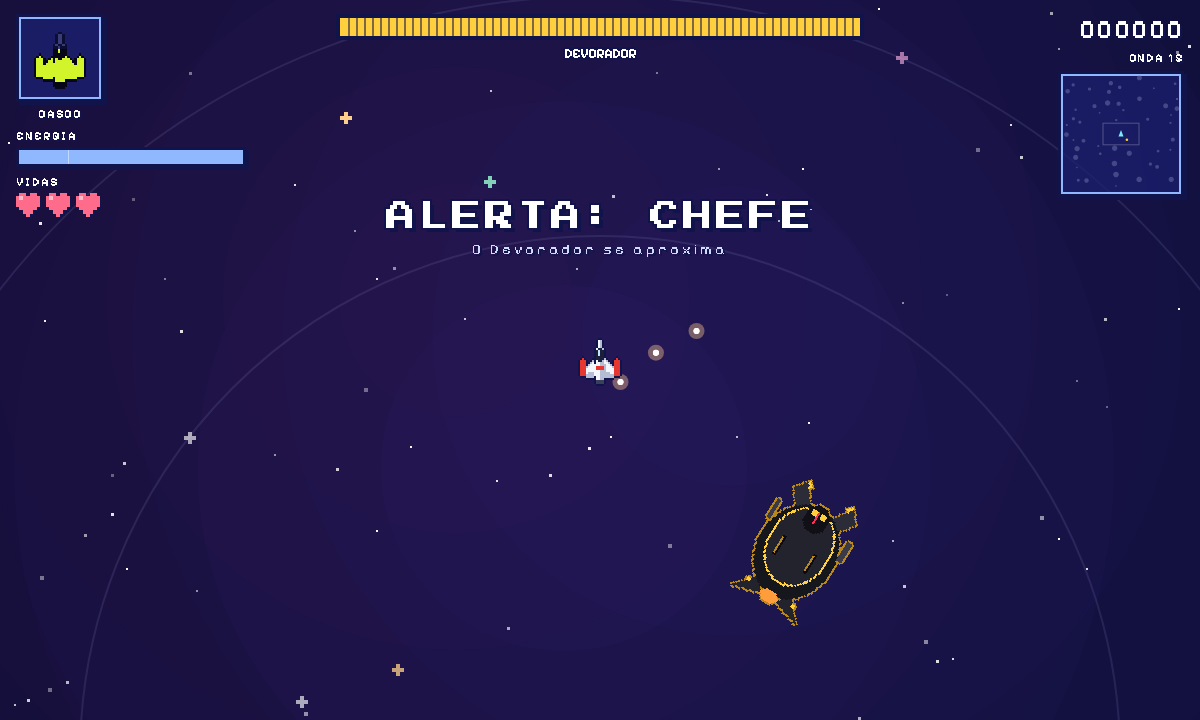
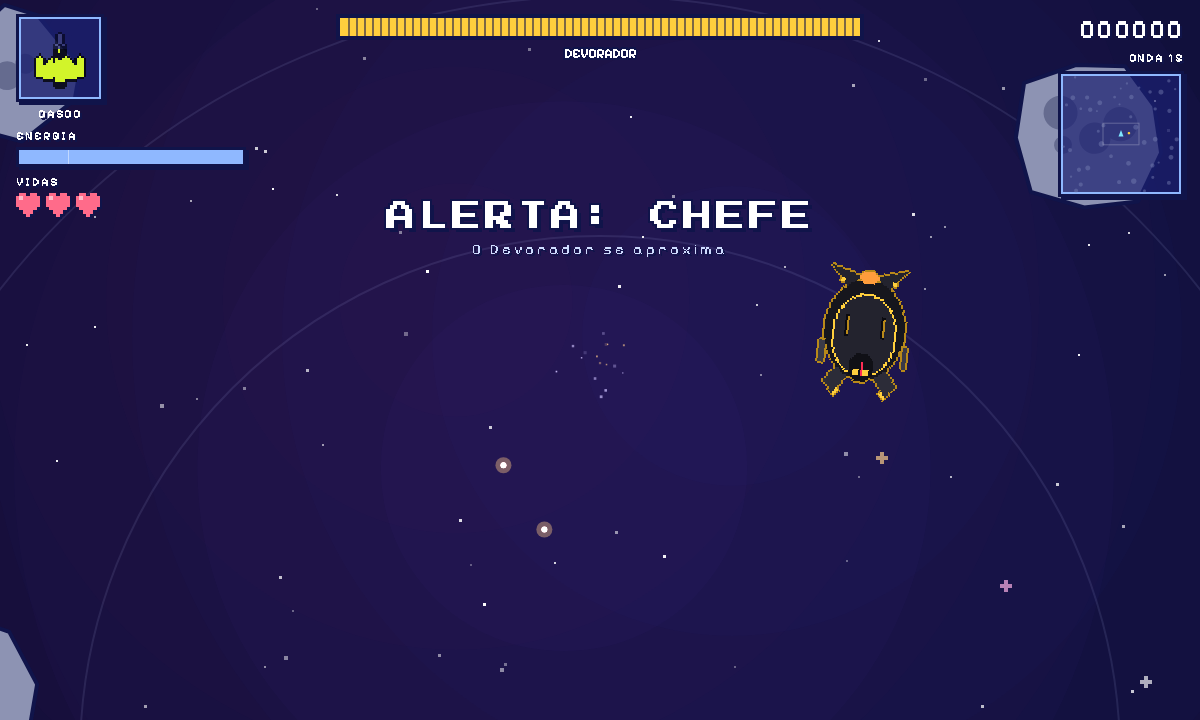
Corrige o joystick e compacta a interface do celular na horizontal
- Joystick: o movimento passa a ser medido a partir do ponto do toque, o que
  corrige a nave que so andava para cima.
- Visao do jogo afastada em celulares (zoom) para mostrar mais do mapa.
- HUD, botoes de toque, menu, pausa, fases e Hangar compactos em telas baixas.
- Tela cheia e bloqueio de orientacao ao iniciar a partida no celular.
- README, landing page e capturas atualizados.

diff --git a/site/jogo/index.html b/site/jogo/index.html
@@ -272,6 +272,72 @@ html,body{overscroll-behavior:none;-webkit-tap-highlight-color:transparent;-webk
 .vol input[type=range]::-moz-range-track{height:12px;border:3px solid var(--ink);background:linear-gradient(90deg,#ffcf3d var(--p),#0d0b2b var(--p))}
 .vol input[type=range]::-moz-range-thumb{width:10px;height:18px;border-radius:0;background:#fff;border:3px solid var(--ink)}
 #pause .vol{margin:2px 0 4px}
+
+/* ===== Celular na horizontal: tudo menor ===== */
+@media (pointer:coarse) and (max-height:520px){
+  #hud{padding:max(6px,env(safe-area-inset-top,0px)) max(10px,env(safe-area-inset-right,0px)) 0 max(10px,env(safe-area-inset-left,0px));gap:8px}
+  .hud-l{width:140px;gap:4px}
+  .icons{gap:8px}
+  .sq{width:46px;height:46px;border-width:2px;box-shadow:inset 0 0 0 1px #8fb8ff,2px 2px 0 var(--ink)}
+  #hullBox{padding:2px}
+  .cap,.lbl{font-size:8px;text-shadow:1px 1px 0 var(--ink)}
+  .meter{gap:2px}
+  .bar{height:10px;border-width:2px;box-shadow:2px 2px 0 var(--ink)}
+  .lives{gap:3px}
+  .hrt{width:15px;height:15px}
+  .hud-r{gap:3px}
+  #score{font-size:17px}
+  #waveLbl{font-size:9px}
+  #mm{width:78px;height:78px;border-width:2px;box-shadow:inset 0 0 0 1px #8fb8ff,2px 2px 0 var(--ink)}
+  #wsec{font-size:11px}
+  #banner{top:16%;font-size:15px}
+  #banner small{font-size:11px;margin-top:4px}
+  #stickBase{width:100px;height:100px;left:calc(26px + env(safe-area-inset-left,0px));bottom:12px;border-width:2px}
+  #stickKnob{width:42px;height:42px;left:27px;top:27px;border-width:2px}
+  #tbtns{grid-template-columns:repeat(3,62px);gap:6px;right:max(10px,env(safe-area-inset-right,0px));bottom:10px}
+  .tb,.tb.big{height:44px;font-size:10px;border-width:2px;box-shadow:inset -2px -2px 0 #a9c8ff,2px 2px 0 var(--ink)}
+  #tDashL{order:1}#tDashR{order:2}#tSwap{order:3}#tBoost{order:4}#tOrb{order:5}#tFire{order:6}
+  #tPause{width:46px;height:32px;top:6px;font-size:10px}
+  .ov{padding:8px max(10px,env(safe-area-inset-right,0px)) 8px max(10px,env(safe-area-inset-left,0px))}
+  .card{padding:12px 16px;gap:8px;box-shadow:inset 3px 3px 0 #fff,inset -3px -3px 0 #b9c8ff,5px 5px 0 var(--ink)}
+  h1{font-size:20px}
+  h1 br{display:none}
+  h1 span{margin-left:.45em}
+  h2{font-size:14px}
+  .eyebrow{font-size:8px}
+  .tag{font-size:13px}
+  .btn{padding:9px 12px;font-size:10px;border-width:2px;box-shadow:inset -3px -3px 0 #a9c8ff,3px 3px 0 var(--ink)}
+  .card.menu{width:min(640px,100%);gap:8px}
+  .card.menu .eyebrow{display:none}
+  .menu-btns{grid-template-columns:repeat(3,1fr);gap:8px}
+  .menu-btn{padding:8px 10px}
+  .menu-btn .b-t{font-size:11px}
+  .menu-btn .b-s{display:none}
+  .menu-btn.big{grid-column:1/-1;padding:10px}
+  .menu-btn.big .b-t{font-size:14px}
+  .vol{gap:8px}
+  .vol .vl{font-size:8px}
+  .vol .vb{padding:5px 7px}
+  .pilot{gap:3px}
+  .pilot .p-t{font-size:8px}
+  .pilot small{display:none}
+  .hi{font-size:11px}
+  #pause .card{width:min(560px,100%);grid-template-columns:1fr 1fr}
+  #pause .card>h2,#pause .card>p,#pause .card>.vol{grid-column:1/-1}
+  .card.over{width:min(640px,100%)}
+  .stat{padding:6px}
+  .stat b,.pts b{font-size:12px}
+  .rank li{padding:3px 8px;font-size:13px;grid-template-columns:34px 1fr auto 48px}
+  #rankOver li:nth-child(n+4){display:none}
+  .lvl-grid{grid-template-columns:repeat(8,1fr);gap:6px}
+  .lvl{font-size:6px;gap:3px}
+  .lvl .circ{font-size:0}
+  .shop-grid{grid-template-columns:repeat(auto-fill,minmax(70px,1fr));gap:6px}
+  .tile{padding:8px 4px 6px}
+  .tile .ico{width:30px;height:30px}
+  .tile.skin canvas{width:44px;height:44px}
+  #skinPrev{max-height:100px;width:auto;margin:0 auto}
+}
 </style>
 
 <canvas id="cv" aria-label="Área de jogo do Galaxy Divers"></canvas>
@@ -570,10 +636,11 @@ function bounceOffRocks(o, rad) {
 
 const cv = $('cv'), ctx = cv.getContext('2d');
 const mm = $('mm'), mctx = mm.getContext('2d');
-let W = 0, H = 0, DPR = 1;
+let W = 0, H = 0, DPR = 1, Z = 1;
 function resize() {
   DPR = Math.min(2, window.devicePixelRatio || 1);
   W = window.innerWidth; H = window.innerHeight;
+  Z = isTouch ? clamp(H / 560, .55, 1) : 1;
   cv.width = Math.round(W * DPR); cv.height = Math.round(H * DPR);
   cv.style.width = W + 'px'; cv.style.height = H + 'px';
 }
@@ -824,22 +891,22 @@ cv.addEventListener('wheel', e => {
   lastWheel = t; cycleWeapon(e.deltaY > 0 ? 1 : -1);
 }, { passive: false });
 
-const touch = { sx: 0, sy: 0, m: 0, active: false, id: null, fire: false, boost: false };
+const touch = { sx: 0, sy: 0, m: 0, ox: 0, oy: 0, active: false, id: null, fire: false, boost: false };
 const zone = $('stickZone'), base = $('stickBase'), knob = $('stickKnob');
 zone.addEventListener('pointerdown', e => {
   touch.id = e.pointerId; touch.active = true; zone.setPointerCapture(e.pointerId);
-  const r = base.getBoundingClientRect();
-  // reposiciona a base sob o dedo
-  base.style.left = (e.clientX - 60) + 'px'; base.style.top = (e.clientY - 60) + 'px'; base.style.bottom = 'auto';
+  // a base aparece sob o dedo, e o movimento é medido a partir do ponto em que o dedo tocou
+  const zr = zone.getBoundingClientRect(), hb = base.offsetWidth / 2;
+  touch.ox = e.clientX; touch.oy = e.clientY;
+  base.style.left = (e.clientX - zr.left - hb) + 'px'; base.style.top = (e.clientY - zr.top - hb) + 'px'; base.style.bottom = 'auto';
   moveStick(e);
 });
 zone.addEventListener('pointermove', e => { if (e.pointerId === touch.id) moveStick(e); });
 const endStick = e => { if (e.pointerId !== touch.id) return; touch.active = false; touch.m = 0; touch.id = null; knob.style.transform = ''; };
 zone.addEventListener('pointerup', endStick); zone.addEventListener('pointercancel', endStick);
 function moveStick(e) {
-  const r = base.getBoundingClientRect();
-  let dx = e.clientX - (r.left + 60), dy = e.clientY - (r.top + 60);
-  const d = Math.hypot(dx, dy), max = 50;
+  let dx = e.clientX - touch.ox, dy = e.clientY - touch.oy;
+  const d = Math.hypot(dx, dy), max = base.offsetWidth * .42;
   if (d > max) { dx *= max / d; dy *= max / d; }
   touch.sx = dx; touch.sy = dy; touch.m = Math.min(1, d / max);
   knob.style.transform = `translate(${dx}px,${dy}px)`;
@@ -864,7 +931,16 @@ $('againBtn').addEventListener('click', start);
 $('resumeBtn').addEventListener('click', togglePause);
 $('pauseRestart').addEventListener('click', () => start());
 
+function goFullscreen() {
+  if (!isTouch || document.fullscreenElement) return;
+  const el = document.documentElement;
+  try {
+    const p = el.requestFullscreen && el.requestFullscreen({ navigationUI: 'hide' });
+    if (p && p.then) p.then(() => { try { screen.orientation.lock('landscape').catch(() => {}); } catch (e) {} }).catch(() => {});
+  } catch (e) {}
+}
 function start() {
+  goFullscreen();
   initAudio(); reset(); state = 'play'; ui.banner.classList.remove('show');
   ui.menu.hidden = true; $('skinsScr').hidden = true; $('ctrlScr').hidden = true; $('levelScr').hidden = true; $('scoresScr').hidden = true; ui.over.hidden = true; ui.pause.hidden = true; ui.shop.hidden = true; ui.hud.hidden = false;
   ui.touch.hidden = !isTouch;
@@ -1796,8 +1872,10 @@ function render() {
   ctx.globalAlpha = 1;
 
   ctx.save();
-  ctx.translate(Math.round(W / 2 - cam.x + sx), Math.round(H / 2 - cam.y + sy));
-  const vx0 = cam.x - W / 2 - 60, vx1 = cam.x + W / 2 + 60, vy0 = cam.y - H / 2 - 60, vy1 = cam.y + H / 2 + 60;
+  if (Z === 1) ctx.translate(Math.round(W / 2 - cam.x + sx), Math.round(H / 2 - cam.y + sy));
+  else { ctx.translate(Math.round(W / 2), Math.round(H / 2)); ctx.scale(Z, Z); ctx.translate(-cam.x + sx, -cam.y + sy); }
+  const hw = W / 2 / Z, hh = H / 2 / Z;
+  const vx0 = cam.x - hw - 60, vx1 = cam.x + hw + 60, vy0 = cam.y - hh - 60, vy1 = cam.y + hh + 60;
   const on = (x, y) => x > vx0 && x < vx1 && y > vy0 && y < vy1;
 
   // borda da arena
@@ -1906,7 +1984,7 @@ function render() {
   if (state === 'play' || state === 'pause') {
     const cx = W / 2, cy = H / 2, mx = W / 2 - 26, my = H / 2 - 26;
     for (const e of enemies) {
-      const ex = e.x - cam.x, ey = e.y - cam.y;
+      const ex = (e.x - cam.x) * Z, ey = (e.y - cam.y) * Z;
       if (Math.abs(ex) < W / 2 && Math.abs(ey) < H / 2) continue;
       const a = Math.atan2(ey, ex), c = Math.cos(a), s = Math.sin(a);
       const k = Math.min(mx / Math.abs(c || 1e-6), my / Math.abs(s || 1e-6));
@@ -1942,7 +2020,7 @@ function renderMinimap() {
   mctx.strokeStyle = 'rgba(255,255,255,.25)'; mctx.lineWidth = 2;
   mctx.fillStyle = 'rgba(120,128,180,.45)';
   for (const a of asteroids) { mctx.beginPath(); mctx.arc(a.x * k, a.y * k, Math.max(1.5, a.r * k), 0, TAU); mctx.fill(); }
-  mctx.strokeRect((cam.x - W / 2) * k, (cam.y - H / 2) * k, W * k, H * k);
+  mctx.strokeRect((cam.x - W / 2 / Z) * k, (cam.y - H / 2 / Z) * k, W / Z * k, H / Z * k);
   for (const p of pickups) { mctx.fillStyle = p.kind === 'hull' ? COL.hull : COL.energy; mctx.fillRect(p.x * k - 2, p.y * k - 2, 4, 4); }
   for (const e of enemies) { mctx.fillStyle = TYPES[e.type].col; const r = e.type === 'heavy' ? 4 : 2.5; mctx.beginPath(); mctx.arc(e.x * k, e.y * k, r, 0, TAU); mctx.fill(); }
   if (P.alive) {

diff --git a/space-dodger.html b/space-dodger.html
@@ -272,6 +272,72 @@ html,body{overscroll-behavior:none;-webkit-tap-highlight-color:transparent;-webk
 .vol input[type=range]::-moz-range-track{height:12px;border:3px solid var(--ink);background:linear-gradient(90deg,#ffcf3d var(--p),#0d0b2b var(--p))}
 .vol input[type=range]::-moz-range-thumb{width:10px;height:18px;border-radius:0;background:#fff;border:3px solid var(--ink)}
 #pause .vol{margin:2px 0 4px}
+
+/* ===== Celular na horizontal: tudo menor ===== */
+@media (pointer:coarse) and (max-height:520px){
+  #hud{padding:max(6px,env(safe-area-inset-top,0px)) max(10px,env(safe-area-inset-right,0px)) 0 max(10px,env(safe-area-inset-left,0px));gap:8px}
+  .hud-l{width:140px;gap:4px}
+  .icons{gap:8px}
+  .sq{width:46px;height:46px;border-width:2px;box-shadow:inset 0 0 0 1px #8fb8ff,2px 2px 0 var(--ink)}
+  #hullBox{padding:2px}
+  .cap,.lbl{font-size:8px;text-shadow:1px 1px 0 var(--ink)}
+  .meter{gap:2px}
+  .bar{height:10px;border-width:2px;box-shadow:2px 2px 0 var(--ink)}
+  .lives{gap:3px}
+  .hrt{width:15px;height:15px}
+  .hud-r{gap:3px}
+  #score{font-size:17px}
+  #waveLbl{font-size:9px}
+  #mm{width:78px;height:78px;border-width:2px;box-shadow:inset 0 0 0 1px #8fb8ff,2px 2px 0 var(--ink)}
+  #wsec{font-size:11px}
+  #banner{top:16%;font-size:15px}
+  #banner small{font-size:11px;margin-top:4px}
+  #stickBase{width:100px;height:100px;left:calc(26px + env(safe-area-inset-left,0px));bottom:12px;border-width:2px}
+  #stickKnob{width:42px;height:42px;left:27px;top:27px;border-width:2px}
+  #tbtns{grid-template-columns:repeat(3,62px);gap:6px;right:max(10px,env(safe-area-inset-right,0px));bottom:10px}
+  .tb,.tb.big{height:44px;font-size:10px;border-width:2px;box-shadow:inset -2px -2px 0 #a9c8ff,2px 2px 0 var(--ink)}
+  #tDashL{order:1}#tDashR{order:2}#tSwap{order:3}#tBoost{order:4}#tOrb{order:5}#tFire{order:6}
+  #tPause{width:46px;height:32px;top:6px;font-size:10px}
+  .ov{padding:8px max(10px,env(safe-area-inset-right,0px)) 8px max(10px,env(safe-area-inset-left,0px))}
+  .card{padding:12px 16px;gap:8px;box-shadow:inset 3px 3px 0 #fff,inset -3px -3px 0 #b9c8ff,5px 5px 0 var(--ink)}
+  h1{font-size:20px}
+  h1 br{display:none}
+  h1 span{margin-left:.45em}
+  h2{font-size:14px}
+  .eyebrow{font-size:8px}
+  .tag{font-size:13px}
+  .btn{padding:9px 12px;font-size:10px;border-width:2px;box-shadow:inset -3px -3px 0 #a9c8ff,3px 3px 0 var(--ink)}
+  .card.menu{width:min(640px,100%);gap:8px}
+  .card.menu .eyebrow{display:none}
+  .menu-btns{grid-template-columns:repeat(3,1fr);gap:8px}
+  .menu-btn{padding:8px 10px}
+  .menu-btn .b-t{font-size:11px}
+  .menu-btn .b-s{display:none}
+  .menu-btn.big{grid-column:1/-1;padding:10px}
+  .menu-btn.big .b-t{font-size:14px}
+  .vol{gap:8px}
+  .vol .vl{font-size:8px}
+  .vol .vb{padding:5px 7px}
+  .pilot{gap:3px}
+  .pilot .p-t{font-size:8px}
+  .pilot small{display:none}
+  .hi{font-size:11px}
+  #pause .card{width:min(560px,100%);grid-template-columns:1fr 1fr}
+  #pause .card>h2,#pause .card>p,#pause .card>.vol{grid-column:1/-1}
+  .card.over{width:min(640px,100%)}
+  .stat{padding:6px}
+  .stat b,.pts b{font-size:12px}
+  .rank li{padding:3px 8px;font-size:13px;grid-template-columns:34px 1fr auto 48px}
+  #rankOver li:nth-child(n+4){display:none}
+  .lvl-grid{grid-template-columns:repeat(8,1fr);gap:6px}
+  .lvl{font-size:6px;gap:3px}
+  .lvl .circ{font-size:0}
+  .shop-grid{grid-template-columns:repeat(auto-fill,minmax(70px,1fr));gap:6px}
+  .tile{padding:8px 4px 6px}
+  .tile .ico{width:30px;height:30px}
+  .tile.skin canvas{width:44px;height:44px}
+  #skinPrev{max-height:100px;width:auto;margin:0 auto}
+}
 </style>
 
 <canvas id="cv" aria-label="Área de jogo do Galaxy Divers"></canvas>
@@ -570,10 +636,11 @@ function bounceOffRocks(o, rad) {
 
 const cv = $('cv'), ctx = cv.getContext('2d');
 const mm = $('mm'), mctx = mm.getContext('2d');
-let W = 0, H = 0, DPR = 1;
+let W = 0, H = 0, DPR = 1, Z = 1;
 function resize() {
   DPR = Math.min(2, window.devicePixelRatio || 1);
   W = window.innerWidth; H = window.innerHeight;
+  Z = isTouch ? clamp(H / 560, .55, 1) : 1;
   cv.width = Math.round(W * DPR); cv.height = Math.round(H * DPR);
   cv.style.width = W + 'px'; cv.style.height = H + 'px';
 }
@@ -824,22 +891,22 @@ cv.addEventListener('wheel', e => {
   lastWheel = t; cycleWeapon(e.deltaY > 0 ? 1 : -1);
 }, { passive: false });
 
-const touch = { sx: 0, sy: 0, m: 0, active: false, id: null, fire: false, boost: false };
+const touch = { sx: 0, sy: 0, m: 0, ox: 0, oy: 0, active: false, id: null, fire: false, boost: false };
 const zone = $('stickZone'), base = $('stickBase'), knob = $('stickKnob');
 zone.addEventListener('pointerdown', e => {
   touch.id = e.pointerId; touch.active = true; zone.setPointerCapture(e.pointerId);
-  const r = base.getBoundingClientRect();
-  // reposiciona a base sob o dedo
-  base.style.left = (e.clientX - 60) + 'px'; base.style.top = (e.clientY - 60) + 'px'; base.style.bottom = 'auto';
+  // a base aparece sob o dedo, e o movimento é medido a partir do ponto em que o dedo tocou
+  const zr = zone.getBoundingClientRect(), hb = base.offsetWidth / 2;
+  touch.ox = e.clientX; touch.oy = e.clientY;
+  base.style.left = (e.clientX - zr.left - hb) + 'px'; base.style.top = (e.clientY - zr.top - hb) + 'px'; base.style.bottom = 'auto';
   moveStick(e);
 });
 zone.addEventListener('pointermove', e => { if (e.pointerId === touch.id) moveStick(e); });
 const endStick = e => { if (e.pointerId !== touch.id) return; touch.active = false; touch.m = 0; touch.id = null; knob.style.transform = ''; };
 zone.addEventListener('pointerup', endStick); zone.addEventListener('pointercancel', endStick);
 function moveStick(e) {
-  const r = base.getBoundingClientRect();
-  let dx = e.clientX - (r.left + 60), dy = e.clientY - (r.top + 60);
-  const d = Math.hypot(dx, dy), max = 50;
+  let dx = e.clientX - touch.ox, dy = e.clientY - touch.oy;
+  const d = Math.hypot(dx, dy), max = base.offsetWidth * .42;
   if (d > max) { dx *= max / d; dy *= max / d; }
   touch.sx = dx; touch.sy = dy; touch.m = Math.min(1, d / max);
   knob.style.transform = `translate(${dx}px,${dy}px)`;
@@ -864,7 +931,16 @@ $('againBtn').addEventListener('click', start);
 $('resumeBtn').addEventListener('click', togglePause);
 $('pauseRestart').addEventListener('click', () => start());
 
+function goFullscreen() {
+  if (!isTouch || document.fullscreenElement) return;
+  const el = document.documentElement;
+  try {
+    const p = el.requestFullscreen && el.requestFullscreen({ navigationUI: 'hide' });
+    if (p && p.then) p.then(() => { try { screen.orientation.lock('landscape').catch(() => {}); } catch (e) {} }).catch(() => {});
+  } catch (e) {}
+}
 function start() {
+  goFullscreen();
   initAudio(); reset(); state = 'play'; ui.banner.classList.remove('show');
   ui.menu.hidden = true; $('skinsScr').hidden = true; $('ctrlScr').hidden = true; $('levelScr').hidden = true; $('scoresScr').hidden = true; ui.over.hidden = true; ui.pause.hidden = true; ui.shop.hidden = true; ui.hud.hidden = false;
   ui.touch.hidden = !isTouch;
@@ -1796,8 +1872,10 @@ function render() {
   ctx.globalAlpha = 1;
 
   ctx.save();
-  ctx.translate(Math.round(W / 2 - cam.x + sx), Math.round(H / 2 - cam.y + sy));
-  const vx0 = cam.x - W / 2 - 60, vx1 = cam.x + W / 2 + 60, vy0 = cam.y - H / 2 - 60, vy1 = cam.y + H / 2 + 60;
+  if (Z === 1) ctx.translate(Math.round(W / 2 - cam.x + sx), Math.round(H / 2 - cam.y + sy));
+  else { ctx.translate(Math.round(W / 2), Math.round(H / 2)); ctx.scale(Z, Z); ctx.translate(-cam.x + sx, -cam.y + sy); }
+  const hw = W / 2 / Z, hh = H / 2 / Z;
+  const vx0 = cam.x - hw - 60, vx1 = cam.x + hw + 60, vy0 = cam.y - hh - 60, vy1 = cam.y + hh + 60;
   const on = (x, y) => x > vx0 && x < vx1 && y > vy0 && y < vy1;
 
   // borda da arena
@@ -1906,7 +1984,7 @@ function render() {
   if (state === 'play' || state === 'pause') {
     const cx = W / 2, cy = H / 2, mx = W / 2 - 26, my = H / 2 - 26;
     for (const e of enemies) {
-      const ex = e.x - cam.x, ey = e.y - cam.y;
+      const ex = (e.x - cam.x) * Z, ey = (e.y - cam.y) * Z;
       if (Math.abs(ex) < W / 2 && Math.abs(ey) < H / 2) continue;
       const a = Math.atan2(ey, ex), c = Math.cos(a), s = Math.sin(a);
       const k = Math.min(mx / Math.abs(c || 1e-6), my / Math.abs(s || 1e-6));
@@ -1942,7 +2020,7 @@ function renderMinimap() {
   mctx.strokeStyle = 'rgba(255,255,255,.25)'; mctx.lineWidth = 2;
   mctx.fillStyle = 'rgba(120,128,180,.45)';
   for (const a of asteroids) { mctx.beginPath(); mctx.arc(a.x * k, a.y * k, Math.max(1.5, a.r * k), 0, TAU); mctx.fill(); }
-  mctx.strokeRect((cam.x - W / 2) * k, (cam.y - H / 2) * k, W * k, H * k);
+  mctx.strokeRect((cam.x - W / 2 / Z) * k, (cam.y - H / 2 / Z) * k, W / Z * k, H / Z * k);
   for (const p of pickups) { mctx.fillStyle = p.kind === 'hull' ? COL.hull : COL.energy; mctx.fillRect(p.x * k - 2, p.y * k - 2, 4, 4); }
   for (const e of enemies) { mctx.fillStyle = TYPES[e.type].col; const r = e.type === 'heavy' ? 4 : 2.5; mctx.beginPath(); mctx.arc(e.x * k, e.y * k, r, 0, TAU); mctx.fill(); }
   if (P.alive) {

diff --git a/site/index.html b/site/index.html
@@ -363,7 +363,7 @@ footer a{color:var(--cyan)}
         <div class="shot"><img src="assets/pausa.png" alt="Tela de pausa com volume e os botões Continuar, Reiniciar partida, Controles e Menu principal" width="1200" height="720" loading="lazy"></div>
         <div class="stack">
           <div class="panel"><h3>Pausa, volume e controles</h3><p>A pausa tem Continuar, Reiniciar partida, Controles e Menu principal, além do volume (0 a 100%) com botão de mudo. Tudo fica salvo no navegador.</p></div>
-          <div class="panel"><h3>No celular</h3><p>Joystick à esquerda e, à direita, os botões FOGO, BOOST, manobras laterais, ESPECIAL e TROCAR. O botão II, no topo, pausa o jogo, e o aparelho vibra quando você leva dano.</p></div>
+          <div class="panel"><h3>No celular</h3><p>Joystick à esquerda e, à direita, os botões FOGO, BOOST, manobras laterais, ESPECIAL e TROCAR. O botão II, no topo, pausa o jogo, e o aparelho vibra quando você leva dano. Jogue na horizontal: o jogo entra em tela cheia ao iniciar e o HUD fica compacto.</p></div>
         </div>
       </div>
 

diff --git a/README.md b/README.md
@@ -112,7 +112,7 @@ As teclas abaixo são as **padrão**. Em **Controles**, no menu principal ou na 
 
 `P`, `M`, `Esc` e `1` `2` `3` são reservadas e não podem ser atribuídas a outras ações.
 
-**No celular**, os controles aparecem na tela: joystick à esquerda para pilotar e, à direita, os botões FOGO, BOOST, as manobras laterais (ESQ e DIR), ESPECIAL e TROCAR. O botão **II**, no topo, pausa o jogo, e o aparelho vibra quando você leva dano.
+**No celular**, os controles aparecem na tela: joystick à esquerda para pilotar e, à direita, os botões FOGO, BOOST, as manobras laterais (ESQ e DIR), ESPECIAL e TROCAR. O botão **II**, no topo, pausa o jogo, e o aparelho vibra quando você leva dano. Jogue com o celular **na horizontal**: ao iniciar a partida o jogo entra em tela cheia (quando o navegador permite), a visão se afasta para mostrar mais do mapa e o HUD e os menus ficam compactos.
 
 ### Pausa e volume
 
